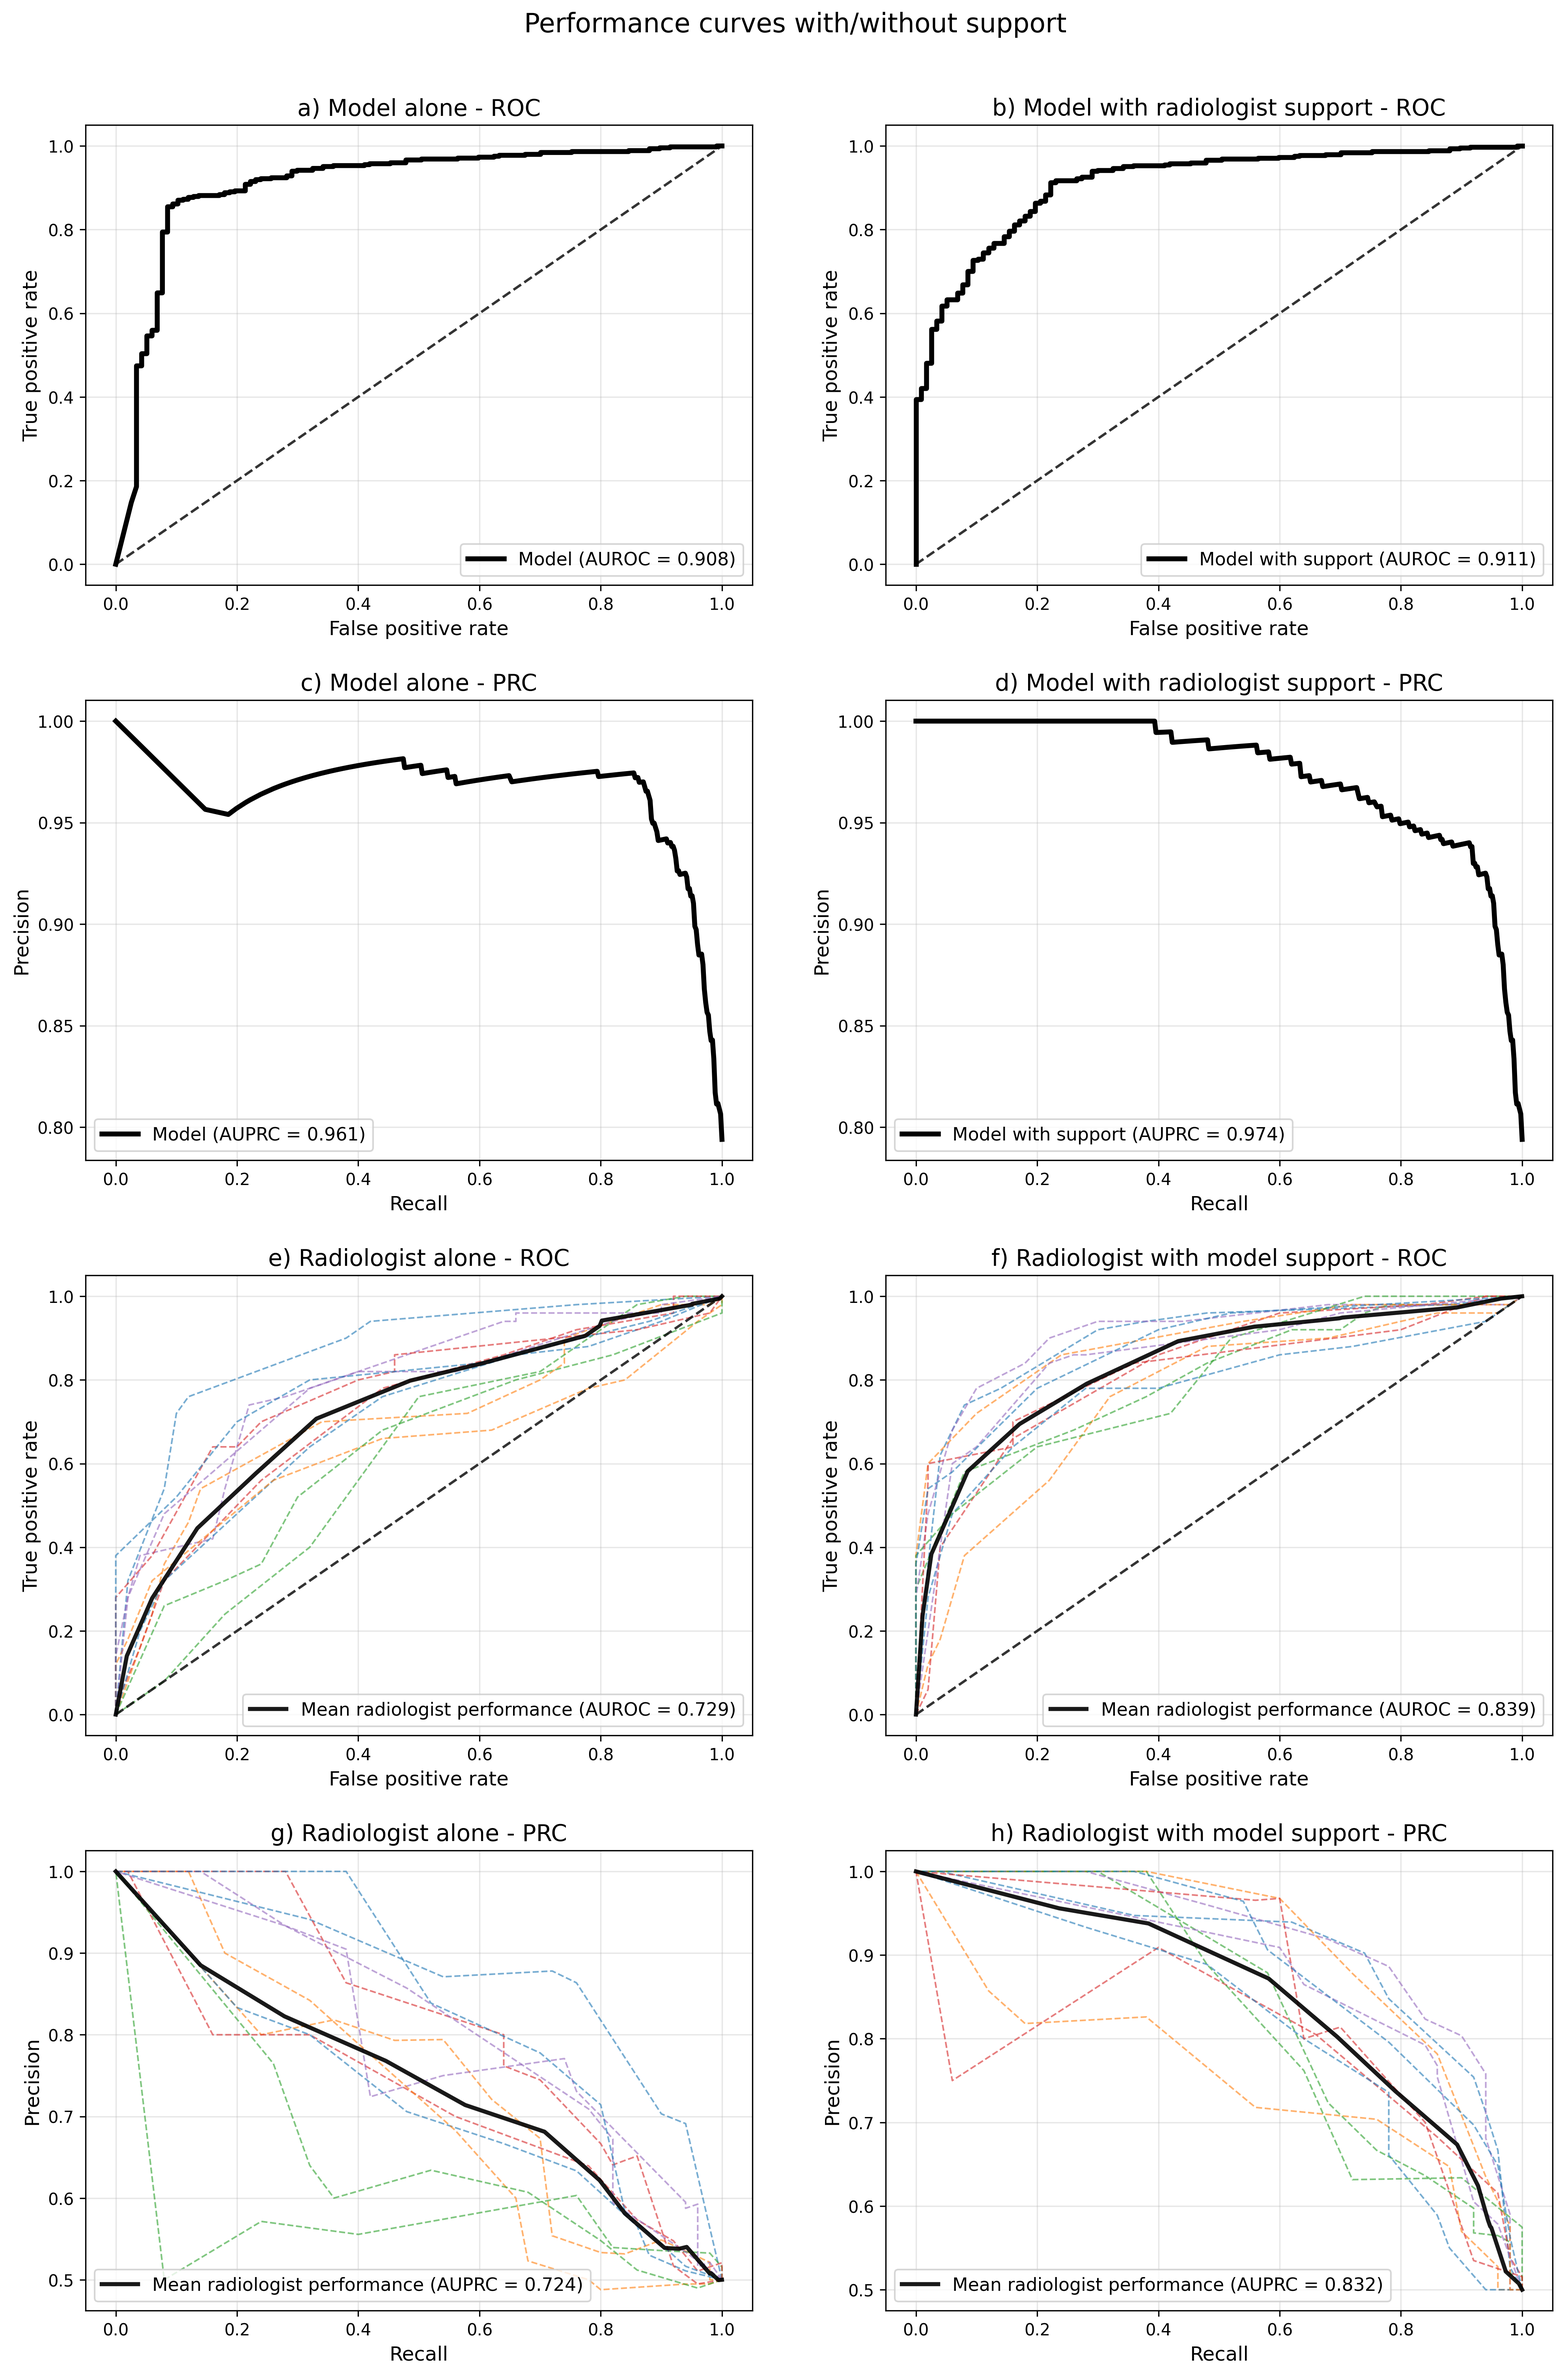
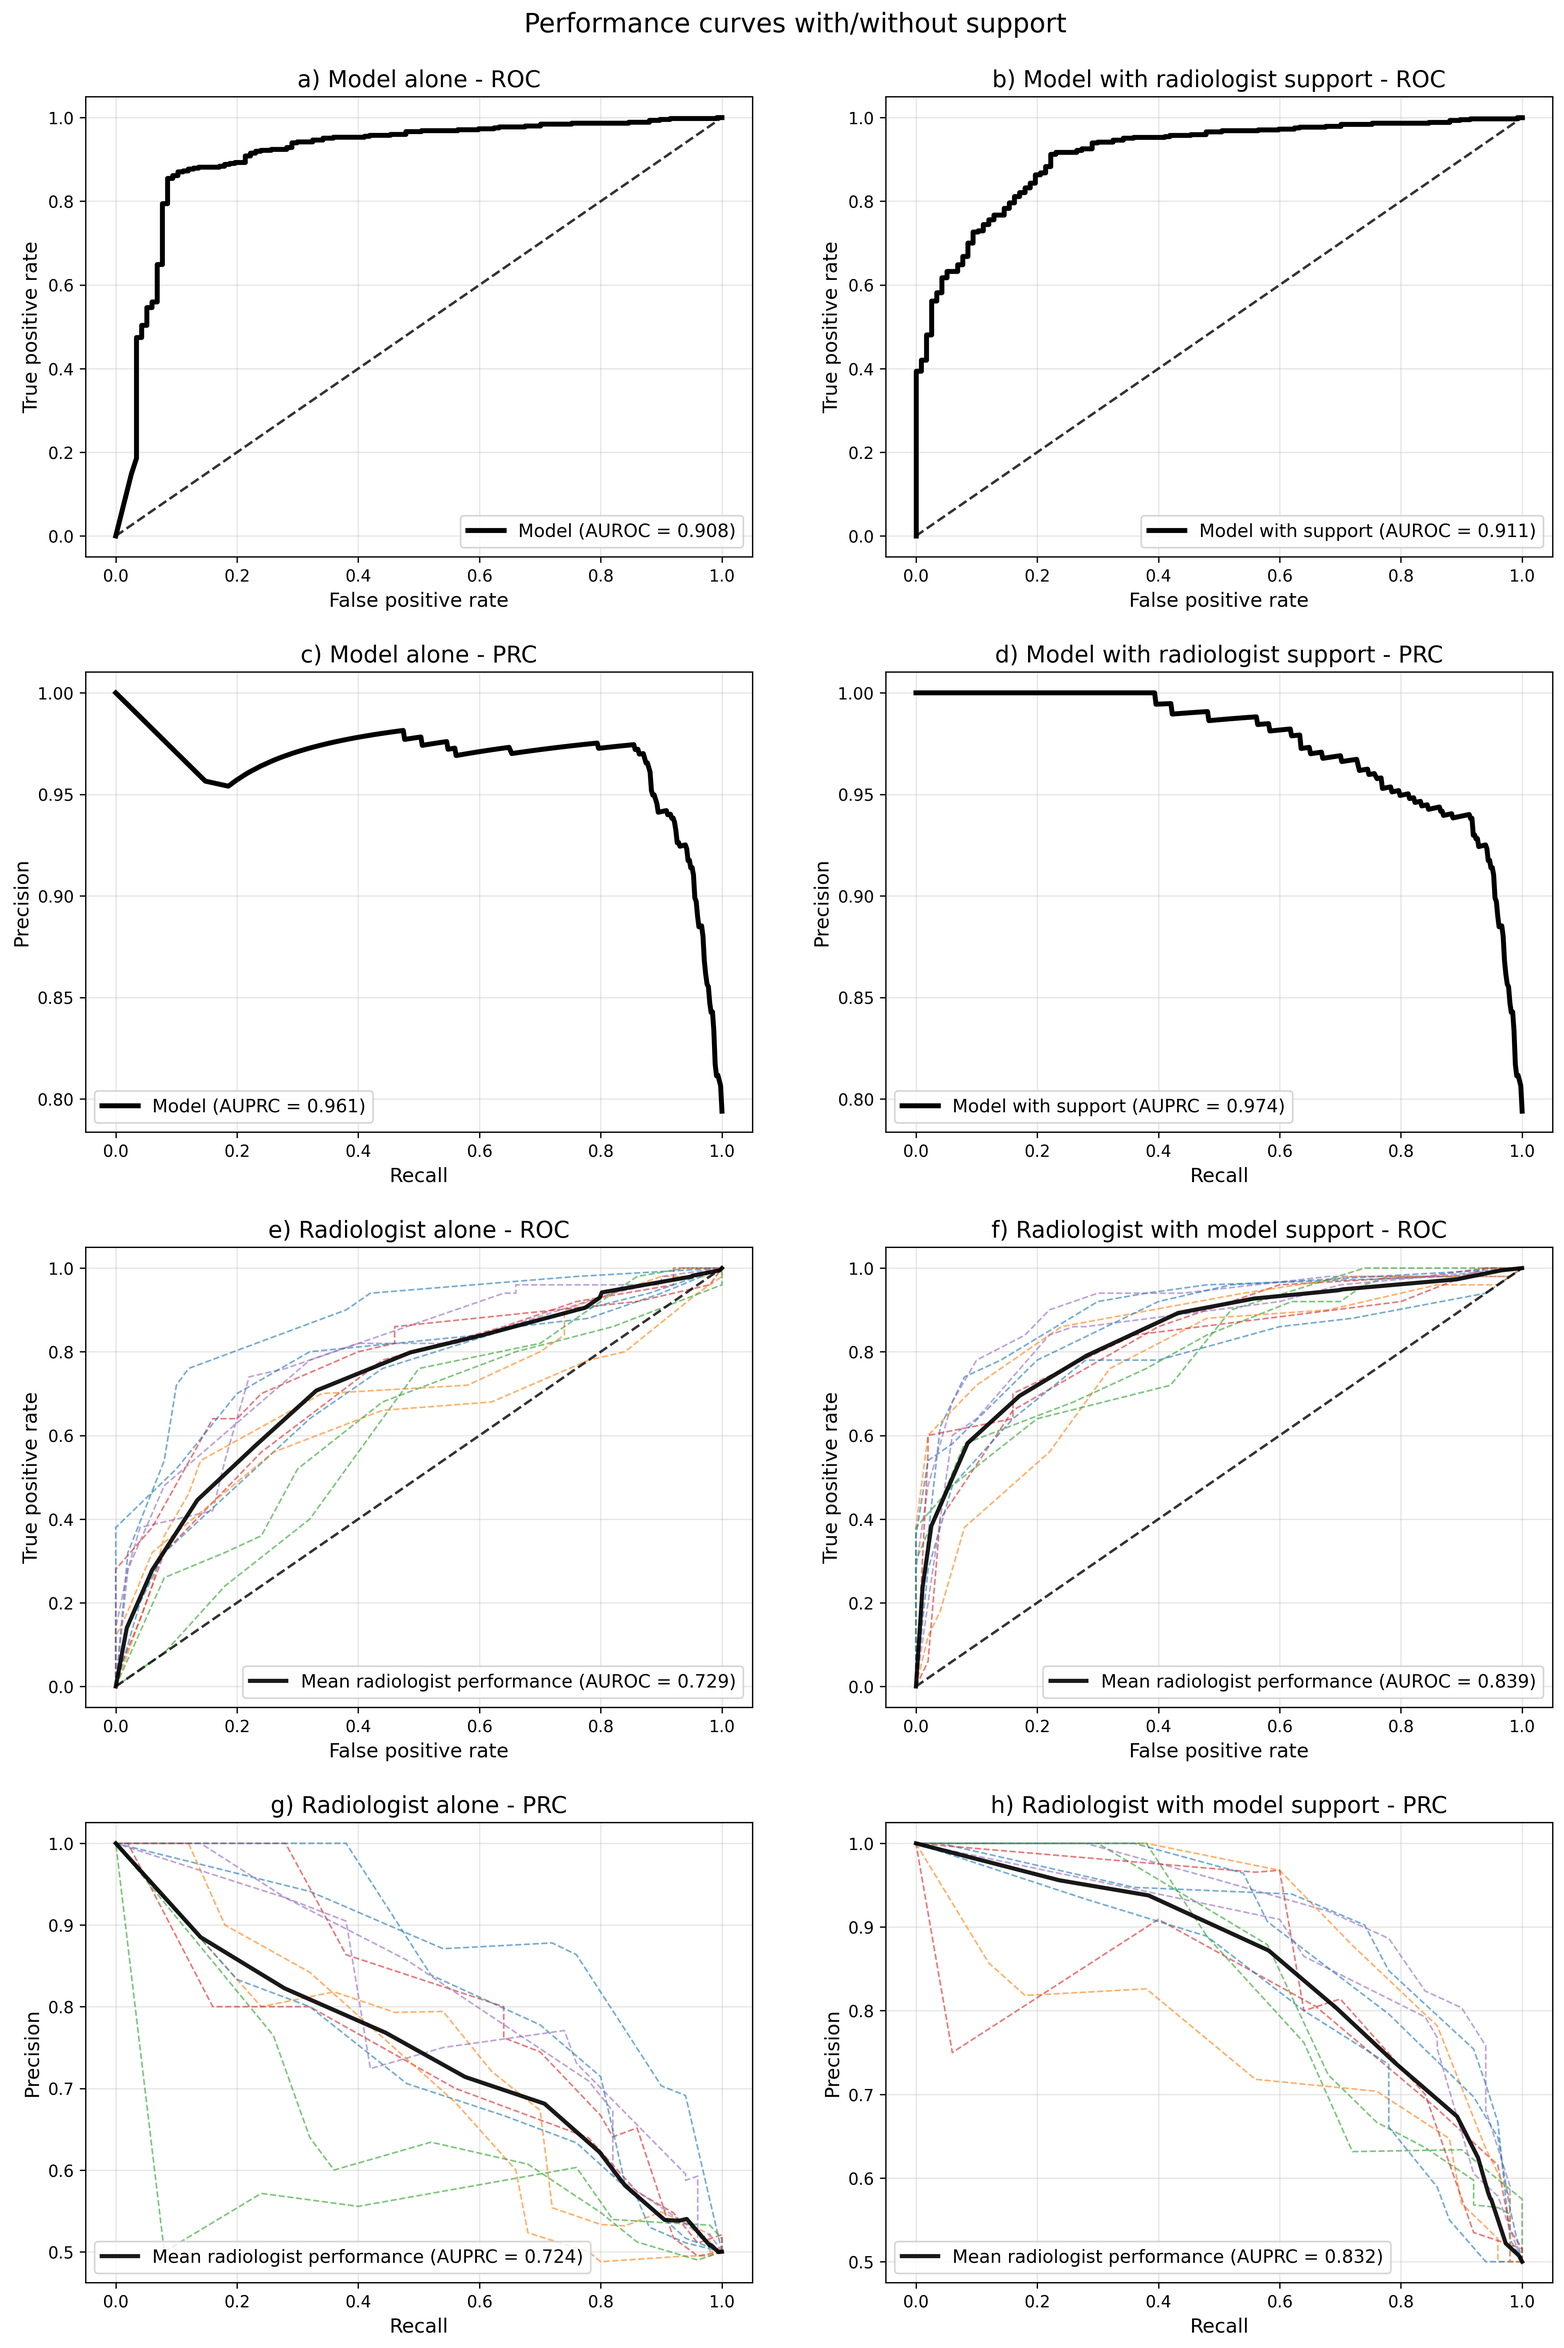
Close up the gap under the Figure 4 main title
Move the suptitle from y=0.92 to y=0.910 so the space between the main title
and the panel titles matches the other figures. Nothing else changes.

diff --git a/code/figures/fig_4.py b/code/figures/fig_4.py
@@ -58,7 +58,7 @@ def main():
     fig3 = plt.figure(figsize=(16, 24))
 
     # Add overall title
-    fig3.suptitle('Performance curves with/without support', fontsize=16, y=0.92)  # Adjusted y position
+    fig3.suptitle('Performance curves with/without support', fontsize=16, y=0.910)  # Adjusted y position
 
     # Define the grid layout - 4 rows, 2 columns - reduced wspace for closer columns
     gs = fig3.add_gridspec(4, 2, hspace=0.25, wspace=0.2)
